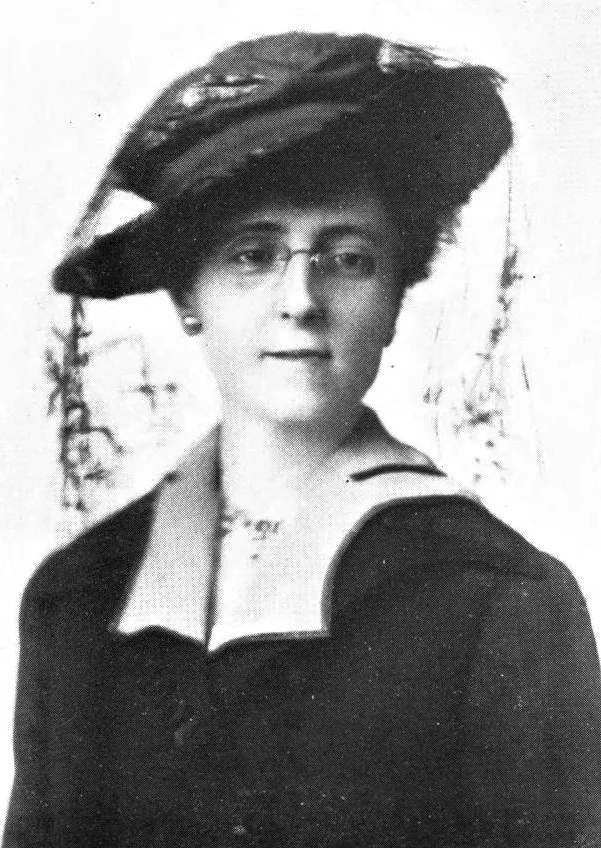
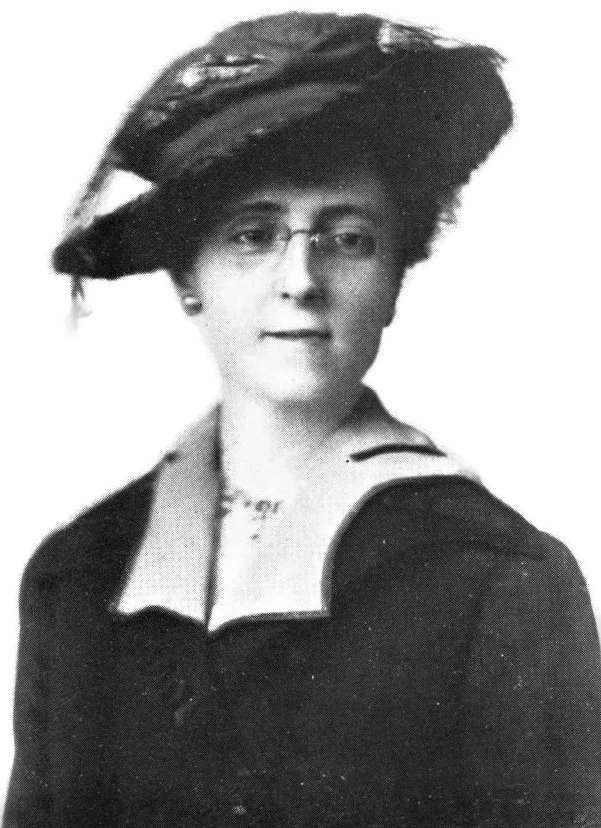
fix(presentacion): imágenes que se funden con el fondo y tarjeta legible en móvil
Con la acuarela detrás, el papel blanco de las ilustraciones se veía como
un rectángulo. El tejado y el carruaje pierden solo el papel conectado al
borde (los blancos pintados se conservan) y Montgomery pasa a un recorte.
La tarjeta mimética conserva su papel blanco, que es parte del diseño, y
en móvil muestra las ilustraciones enteras en vez de una franja. En la
línea temporal móvil la línea corre a la izquierda de los íconos, sin el
disco blanco, y el sombrero y el vestido se redibujan según la referencia.

diff --git a/index.html b/index.html
@@ -73,7 +73,7 @@
     <!-- DATOS EDITORIALES -->
     <section class="datos" id="datos" aria-labelledby="datos-titulo">
       <figure class="datos__autora" data-reveal="left" data-tilt>
-        <img src="assets/img/montgomery.webp" alt="Retrato de Lucy Maud Montgomery con anteojos, sombrero oscuro de ala ancha y velo" width="601" height="848" data-parallax="0.06">
+        <img src="assets/img/montgomery.webp" alt="Retrato de Lucy Maud Montgomery con anteojos y sombrero oscuro de ala ancha" width="601" height="828" data-parallax="0.06">
       </figure>
 
       <div class="datos__texto">
@@ -193,7 +193,7 @@
               </div>
             </article>
             <article class="flip__cara flip__cara--b">
-              <img src="assets/img/ana-flores.webp" alt="Acuarela de Ana recostada entre flores blancas, riendo, con su sombrero de paja a un lado" width="709" height="903">
+              <img src="assets/img/ana-flores.webp" alt="Acuarela de Ana recostada entre flores blancas, riendo, con su sombrero de paja a un lado" width="697" height="900">
               <div class="flip__texto">
                 <h4>Aproximación semiótica</h4>
                 <p>
@@ -219,12 +219,32 @@
         <ol class="timeline">
           <li class="fase">
             <span class="fase__icono">
-              <svg viewBox="0 0 80 44" role="img" aria-label="Sombrero de paja">
-                <ellipse cx="40" cy="33" rx="37" ry="9" fill="#b9854f"/>
-                <ellipse cx="40" cy="31" rx="33" ry="6.5" fill="#c99762"/>
-                <path d="M21 31 C 21 14, 59 14, 59 31 Z" fill="#b9854f"/>
-                <path d="M21 26 C 30 29, 50 29, 59 26 L 59.5 31 C 50 34, 30 34, 20.5 31 Z" fill="#232a4a"/>
-                <path d="M26 20 C 32 16, 46 16, 52 19" stroke="#dcae78" stroke-width="1.6" fill="none" stroke-linecap="round"/>
+              <svg viewBox="0 0 100 104" role="img" aria-label="Sombrero de paja con lazo verde">
+                <defs>
+                  <filter id="acuarela-sombrero" x="-5%" y="-5%" width="110%" height="110%">
+                    <feTurbulence type="fractalNoise" baseFrequency="0.8" numOctaves="2" seed="4" result="ruido"/>
+                    <feDisplacementMap in="SourceGraphic" in2="ruido" scale="2.2" result="borde"/>
+                    <feTurbulence type="fractalNoise" baseFrequency="2.2" numOctaves="1" seed="9" result="grano"/>
+                    <feColorMatrix in="grano" type="matrix" values="0 0 0 0 0.35  0 0 0 0 0.22  0 0 0 0 0.1  0 0 0 0.22 -0.02" result="granoColor"/>
+                    <feComposite in="granoColor" in2="borde" operator="in" result="granoDentro"/>
+                    <feMerge><feMergeNode in="borde"/><feMergeNode in="granoDentro"/></feMerge>
+                  </filter>
+                </defs>
+                <g filter="url(#acuarela-sombrero)">
+                  <circle cx="50" cy="46" r="41" fill="#e7b684"/>
+                  <circle cx="50" cy="46" r="41" fill="none" stroke="#d29a63" stroke-width="1.4" opacity=".7"/>
+                  <path d="M74.0 45.3L76.4 46.6M72.8 53.4L74.5 55.3M69.8 59.2L71.3 61.8M66.3 63.1L67.3 66.1M60.4 67.0L60.4 70.0M53.4 69.0L52.5 71.4M44.9 68.8L42.9 71.8M39.3 66.8L37.0 68.4M32.1 61.5L28.4 62.9M28.2 55.8L25.1 55.8M26.1 47.7L23.7 46.6M26.5 41.2L24.2 39.4M27.8 37.1L26.1 35.1M31.9 30.7L30.2 27.5M37.0 26.5L36.4 23.2M45.2 23.2L45.9 20.3M52.0 22.8L53.5 20.7M57.2 23.8L59.2 21.9M65.5 28.2L68.4 27.0M69.4 32.3L72.7 31.6M72.9 39.0L75.8 39.4M79.0 47.3L82.2 49.0M78.4 51.6L81.1 53.7M75.6 59.2L78.0 62.2M71.0 65.4L71.8 68.3M64.6 70.3L64.4 73.0M60.6 72.2L60.4 75.8M55.1 73.7L54.0 76.8M48.6 74.1L46.9 77.2M38.6 71.9L35.9 74.0M32.1 68.1L29.2 69.2M27.7 64.0L24.3 64.7M24.2 58.8L20.9 58.6M21.5 51.2L17.6 50.3M21.0 46.1L17.8 44.6M21.4 41.2L18.5 39.1M24.6 32.3L22.2 29.2M29.3 26.3L28.6 23.4M33.1 23.1L32.5 19.7M37.7 20.5L37.9 17.3M45.0 18.3L46.1 15.8M51.5 17.9L53.2 14.7M58.7 19.2L60.9 17.2M66.1 22.6L69.4 20.6M70.4 26.0L73.5 25.1M75.8 33.1L79.7 32.9M78.5 40.7L82.3 41.6M84.0 44.8L86.9 46.5M83.4 52.1L86.6 54.6M80.0 61.6L81.2 64.2M78.5 64.0L79.6 66.8M73.8 69.5L74.5 72.8M66.6 74.8L66.2 77.8M63.0 76.5L62.4 79.7M54.3 78.7L52.8 81.9M44.0 78.5L41.6 81.3M39.4 77.3L36.7 79.7M32.2 74.1L29.5 75.0M25.7 69.0L21.9 70.1M21.3 63.8L17.4 64.0M19.2 59.9L15.9 59.5M17.3 54.9L13.7 54.0M16.1 48.3L13.7 46.7M16.4 40.7L14.4 38.5M18.6 33.4L17.2 30.9M21.0 28.8L19.9 26.1M25.7 22.9L25.0 19.8M30.8 18.8L30.4 14.9M40.1 14.5L41.1 11.7M45.1 13.4L46.5 10.5M52.8 13.1L54.8 11.0M62.3 15.3L65.4 12.5M66.8 17.3L69.9 15.8M71.0 20.1L73.9 19.4M77.0 25.9L80.2 25.8M81.7 34.2L84.7 35.0M82.6 36.7L86.7 37.5M88.0 46.2L90.4 48.1M87.3 53.0L89.1 55.3M85.4 59.5L88.1 62.7M81.1 67.2L82.6 70.7M79.0 69.8L79.8 73.0M74.5 74.2L75.1 78.0M66.8 79.1L66.4 82.9M61.4 81.2L60.2 84.1M51.6 82.8L49.7 86.5M44.4 82.5L41.8 85.5M37.8 80.9L34.7 83.3M34.6 79.7L31.5 81.5M27.8 75.9L24.9 76.5M23.9 72.8L20.7 73.3M18.5 66.6L14.6 66.7M13.7 56.8L10.3 55.7M12.3 50.2L8.3 48.6M12.1 43.3L9.5 41.2M12.4 40.9L10.2 38.6M13.9 34.4L12.2 31.7M18.1 26.0L16.2 22.4M23.4 19.7L22.8 16.3M27.8 16.1L27.5 12.2M30.8 14.2L31.0 10.5M42.0 10.0L43.3 6.3M48.0 9.2L49.9 6.3M51.6 9.2L53.8 5.9M59.4 10.3L62.3 7.6M69.5 14.3L72.6 13.0M72.4 16.2L76.3 14.6M79.0 22.2L82.1 22.1M81.1 24.8L84.2 25.0M86.2 34.9L90.2 35.9M86.9 37.2L90.8 38.3" stroke="#c78d58" stroke-width="1.1" stroke-linecap="round" opacity=".75"/>
+                  <circle cx="49" cy="43" r="19" fill="#f2cfa4"/>
+                  <circle cx="49" cy="43" r="19" fill="none" stroke="#d7a470" stroke-width="1.6"/>
+                  <path d="M40 35 q8-5 16 0 M38 44 q10-4 22 1" stroke="#dcae7c" stroke-width="1.1" fill="none" stroke-linecap="round"/>
+                  <path d="M31 50 C 38 60, 60 62, 68 52 L 70 57 C 61 68, 37 66, 29 55 Z" fill="#6f7d3c"/>
+                  <path d="M50 62 C 40 52, 26 56, 30 66 C 33 73, 44 70, 50 64 Z" fill="#7b8a44" stroke="#4d5826" stroke-width="1.1" stroke-linejoin="round"/>
+                  <path d="M50 62 C 60 52, 75 55, 71 66 C 68 73, 56 70, 50 64 Z" fill="#7b8a44" stroke="#4d5826" stroke-width="1.1" stroke-linejoin="round"/>
+                  <path d="M36 60 q5 2 9 4 M64 60 q-5 2 -9 4" stroke="#5c6a2e" stroke-width="1" fill="none" stroke-linecap="round"/>
+                  <path d="M48 65 C 44 76, 40 88, 36 100 L 41 97 L 44 101 C 47 88, 50 76, 52 66 Z" fill="#6f7d3c" stroke="#4d5826" stroke-width="1.1" stroke-linejoin="round"/>
+                  <path d="M52 65 C 58 75, 64 85, 70 95 L 72 90 L 76 93 C 70 82, 62 72, 55 64 Z" fill="#7b8a44" stroke="#4d5826" stroke-width="1.1" stroke-linejoin="round"/>
+                  <ellipse cx="50.5" cy="64" rx="4.6" ry="4" fill="#5f6d31" stroke="#4d5826" stroke-width="1.1"/>
+                </g>
               </svg>
             </span>
             <div class="fase__texto"><strong>Fase 1: Ironía</strong><span>Ana huérfana y sometida al mundo adulto.</span></div>
@@ -239,21 +259,44 @@
           </li>
           <li class="fase">
             <span class="fase__icono">
-              <svg viewBox="0 0 60 80" role="img" aria-label="Vestido de cuadros en un gancho">
+              <svg viewBox="0 0 100 108" role="img" aria-label="Vestido de mangas abullonadas">
                 <defs>
-                  <pattern id="cuadros" width="8" height="8" patternUnits="userSpaceOnUse">
-                    <rect width="8" height="8" fill="#f4f1f7"/>
-                    <rect width="4" height="8" fill="#3b3470" opacity=".55"/>
-                    <rect width="8" height="4" fill="#3b3470" opacity=".55"/>
-                  </pattern>
+                  <filter id="acuarela-vestido" x="-5%" y="-5%" width="110%" height="110%">
+                    <feTurbulence type="fractalNoise" baseFrequency="0.8" numOctaves="2" seed="6" result="ruido"/>
+                    <feDisplacementMap in="SourceGraphic" in2="ruido" scale="0.9" result="borde"/>
+                    <feTurbulence type="fractalNoise" baseFrequency="2" numOctaves="1" seed="2" result="grano"/>
+                    <feColorMatrix in="grano" type="matrix" values="0 0 0 0 0.45  0 0 0 0 0.43  0 0 0 0 0.4  0 0 0 0.2 -0.02" result="granoColor"/>
+                    <feComposite in="granoColor" in2="borde" operator="in" result="granoDentro"/>
+                    <feMerge><feMergeNode in="borde"/><feMergeNode in="granoDentro"/></feMerge>
+                  </filter>
                 </defs>
-                <path d="M30 3 c 3 0 4 3 2 5 l -2 2" stroke="#6b6b6b" stroke-width="1.4" fill="none" stroke-linecap="round"/>
-                <path d="M30 10 L 18 18 M30 10 L 42 18" stroke="#6b6b6b" stroke-width="1.4" stroke-linecap="round"/>
-                <ellipse cx="13" cy="28" rx="6" ry="11" transform="rotate(18 13 28)" fill="#d2a045"/>
-                <ellipse cx="47" cy="28" rx="6" ry="11" transform="rotate(-18 47 28)" fill="#d2a045"/>
-                <path d="M9 38 l -2 8 M51 38 l 2 8" stroke="#d2a045" stroke-width="5" stroke-linecap="round"/>
-                <path d="M18 18 H42 L 40 40 L 52 76 H 8 L 20 40 Z" fill="url(#cuadros)" stroke="#2b2658" stroke-width="1.2" stroke-linejoin="round"/>
-                <path d="M20 40 H40" stroke="#2b2658" stroke-width="1.6"/>
+                <g filter="url(#acuarela-vestido)" stroke="#7a7367" stroke-width="1.25" stroke-linejoin="round" stroke-linecap="round">
+                  <path d="M37 46 C 30 62, 20 80, 13 94 L 87 94 C 80 80, 70 62, 63 46 Z" fill="#f3efe6"/>
+                  <path d="M56 47 C 62 62, 70 78, 76 92 L 87 94 C 80 80, 70 62, 63 46 Z" fill="#dcd5c7" stroke="none"/>
+                  <path d="M37 47 C 33 58, 27 72, 21 86 L 26 88 C 31 74, 36 60, 40 48 Z" fill="#e6e0d3" stroke="none"/>
+                  <path d="M44 50 C 40 66, 34 80, 30 93 M50 50 V 93 M56 50 C 60 66, 66 80, 70 93" fill="none" stroke="#c9c2b4"/>
+                  <path d="M11 93 q4.5 7 9 0 q4.5 7 9 0 q4.5 7 9 0 q4.5 7 9 0 q4.5 7 9 0 q4.5 7 9 0 q4.5 7 9 0 q4.5 7 9 0 q4.5 7 9 0 L 89 93 L 87 90 L 13 90 Z" fill="#ebe5d8"/>
+                  <path d="M24 34 C 20 42, 17 50, 15 56 L 21 58 C 24 51, 28 44, 31 38 Z" fill="#f3efe6"/>
+                  <path d="M76 34 C 80 42, 83 50, 85 56 L 79 58 C 76 51, 72 44, 69 38 Z" fill="#f3efe6"/>
+                  <path d="M12 56 q3 5 6 1 q3 4 6 0 L 21 55 L 14 53 Z" fill="#ebe5d8"/>
+                  <path d="M88 56 q-3 5 -6 1 q-3 4 -6 0 L 79 55 L 86 53 Z" fill="#ebe5d8"/>
+                  <path d="M38 20 H 62 L 64 46 H 36 Z" fill="#f3efe6"/>
+                  <path d="M56 30 L 62 30 L 64 46 L 57 46 Z" fill="#e2dccf" stroke="none"/>
+                  <ellipse cx="28" cy="28" rx="11" ry="10" fill="#f6f2ea"/>
+                  <ellipse cx="72" cy="28" rx="11" ry="10" fill="#f6f2ea"/>
+                  <path d="M28 30 a 9 8 0 0 0 9 -3 a 11 10 0 0 1 -9 11 Z M72 30 a 9 8 0 0 1 -9 -3 a 11 10 0 0 0 9 11 Z" fill="#dcd5c7" stroke="none"/>
+                  <path d="M22 24 q5 4 4 11 M34 23 q-4 5 -3 12 M78 24 q-5 4 -4 11 M66 23 q4 5 3 12" fill="none" stroke="#c9c2b4"/>
+                  <path d="M40 16 L 30 20 L 34 33 L 50 29 L 66 33 L 70 20 L 60 16 L 50 24 Z" fill="#fbf9f4"/>
+                  <path d="M44 12 H 56 V 17 L 50 22 L 44 17 Z" fill="#f3efe6"/>
+                  <g fill="#8ea2b2" stroke="#61778a">
+                    <path d="M50 25 l -6 -3 l 0 6 Z M50 25 l 6 -3 l 0 6 Z"/><circle cx="50" cy="25" r="1.6"/>
+                    <path d="M50 46 l -5 -2.5 l 0 5 Z M50 46 l 5 -2.5 l 0 5 Z"/><circle cx="50" cy="46" r="1.4"/>
+                    <path d="M24 92 l -4 -2 l 0 4 Z M24 92 l 4 -2 l 0 4 Z"/>
+                    <path d="M50 92 l -4 -2 l 0 4 Z M50 92 l 4 -2 l 0 4 Z"/>
+                    <path d="M76 92 l -4 -2 l 0 4 Z M76 92 l 4 -2 l 0 4 Z"/>
+                  </g>
+                  <path d="M36 46 H 64" fill="none" stroke="#8ea2b2" stroke-width="2"/>
+                </g>
               </svg>
             </span>
             <div class="fase__texto"><strong>Fase 4: Encogimiento</strong><span>La necesidad de encajar con la norma.</span></div>

diff --git a/css/styles.css b/css/styles.css
@@ -297,12 +297,13 @@ main > section, .pie {
 }
 
 .datos__autora { margin: 0; }
-/* La foto es un retrato rectangular con fondo claro; el borde se desvanece
-   hacia el papel para que flote como el recorte del mockup. */
+/* Recorte con fondo transparente; la foto termina en un corte recto a la
+   altura del busto, así que solo se desvanece hacia abajo. */
 .datos__autora img {
   width: min(100%, 320px); margin-inline: auto;
-  -webkit-mask-image: radial-gradient(ellipse 50% 50% at 50% 46%, #000 56%, transparent 100%);
-  mask-image: radial-gradient(ellipse 50% 50% at 50% 46%, #000 56%, transparent 100%);
+  filter: drop-shadow(0 16px 22px rgb(40 30 20 / 0.16));
+  -webkit-mask-image: linear-gradient(to bottom, #000 76%, transparent 100%);
+  mask-image: linear-gradient(to bottom, #000 76%, transparent 100%);
 }
 
 .datos__texto h2 {
@@ -780,12 +781,20 @@ main > section, .pie {
     margin: 0; padding: 0 0 0 14px; border-left: 3px solid var(--sage);
   }
 
-  .flip__cara { grid-template-columns: 1fr; }
-  .flip__cara img { height: 200px; object-position: center 30%; }
+  /* En móvil la ilustración va entera, como una lámina montada sobre la
+     tarjeta; recortarla a una franja escondía justo lo que la hace bonita. */
+  .flip__cara { grid-template-columns: 1fr; align-content: center; padding-top: 18px; }
+  .flip__cara img {
+    width: min(64%, 230px); height: auto; justify-self: center;
+    object-fit: contain;
+    box-shadow: 0 10px 20px -12px rgb(40 30 20 / 0.45);
+  }
 
-  .timeline { --line-x: 30px; }
-  .fase, .fase:nth-child(n) { grid-template-columns: 60px 1fr; column-gap: 26px; }
-  .fase:nth-child(n) .fase__icono { grid-column: 1; grid-row: 1; justify-self: center; width: 52px; height: 52px; background: var(--paper); border-radius: 50%; position: relative; z-index: 1; }
+  /* La línea corre a la izquierda de los íconos en vez de atravesarlos: así
+     no hace falta taparla con un disco blanco que rompe el fondo de acuarela. */
+  .timeline { --line-x: 4px; padding-left: 22px; }
+  .fase, .fase:nth-child(n) { grid-template-columns: 56px 1fr; column-gap: 18px; }
+  .fase:nth-child(n) .fase__icono { grid-column: 1; grid-row: 1; justify-self: center; width: 52px; height: 52px; }
   .fase:nth-child(n) .fase__texto { grid-column: 2; grid-row: 1; text-align: left; }
   .js .fase:nth-child(n) .fase__texto { translate: 24px 0; }
   .js .fase.is-in .fase__texto { translate: none; }
